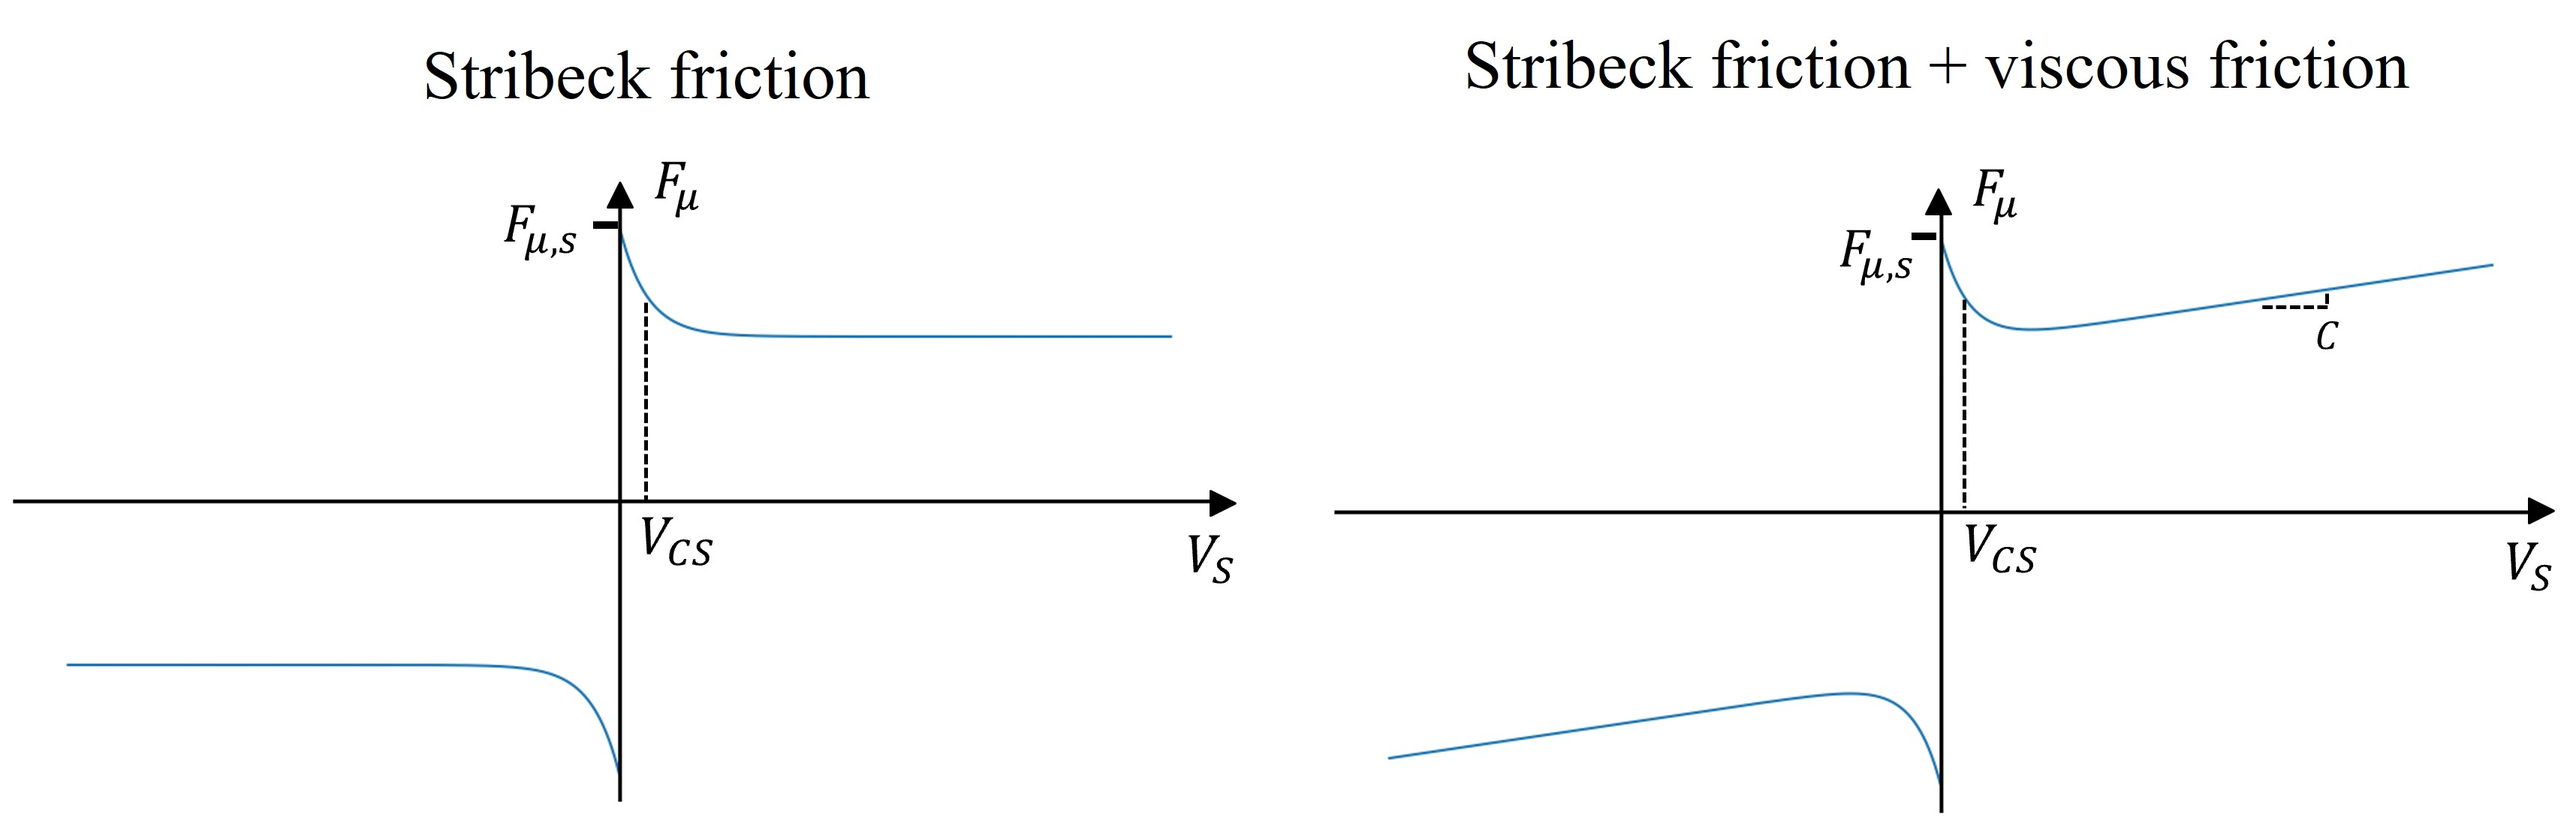
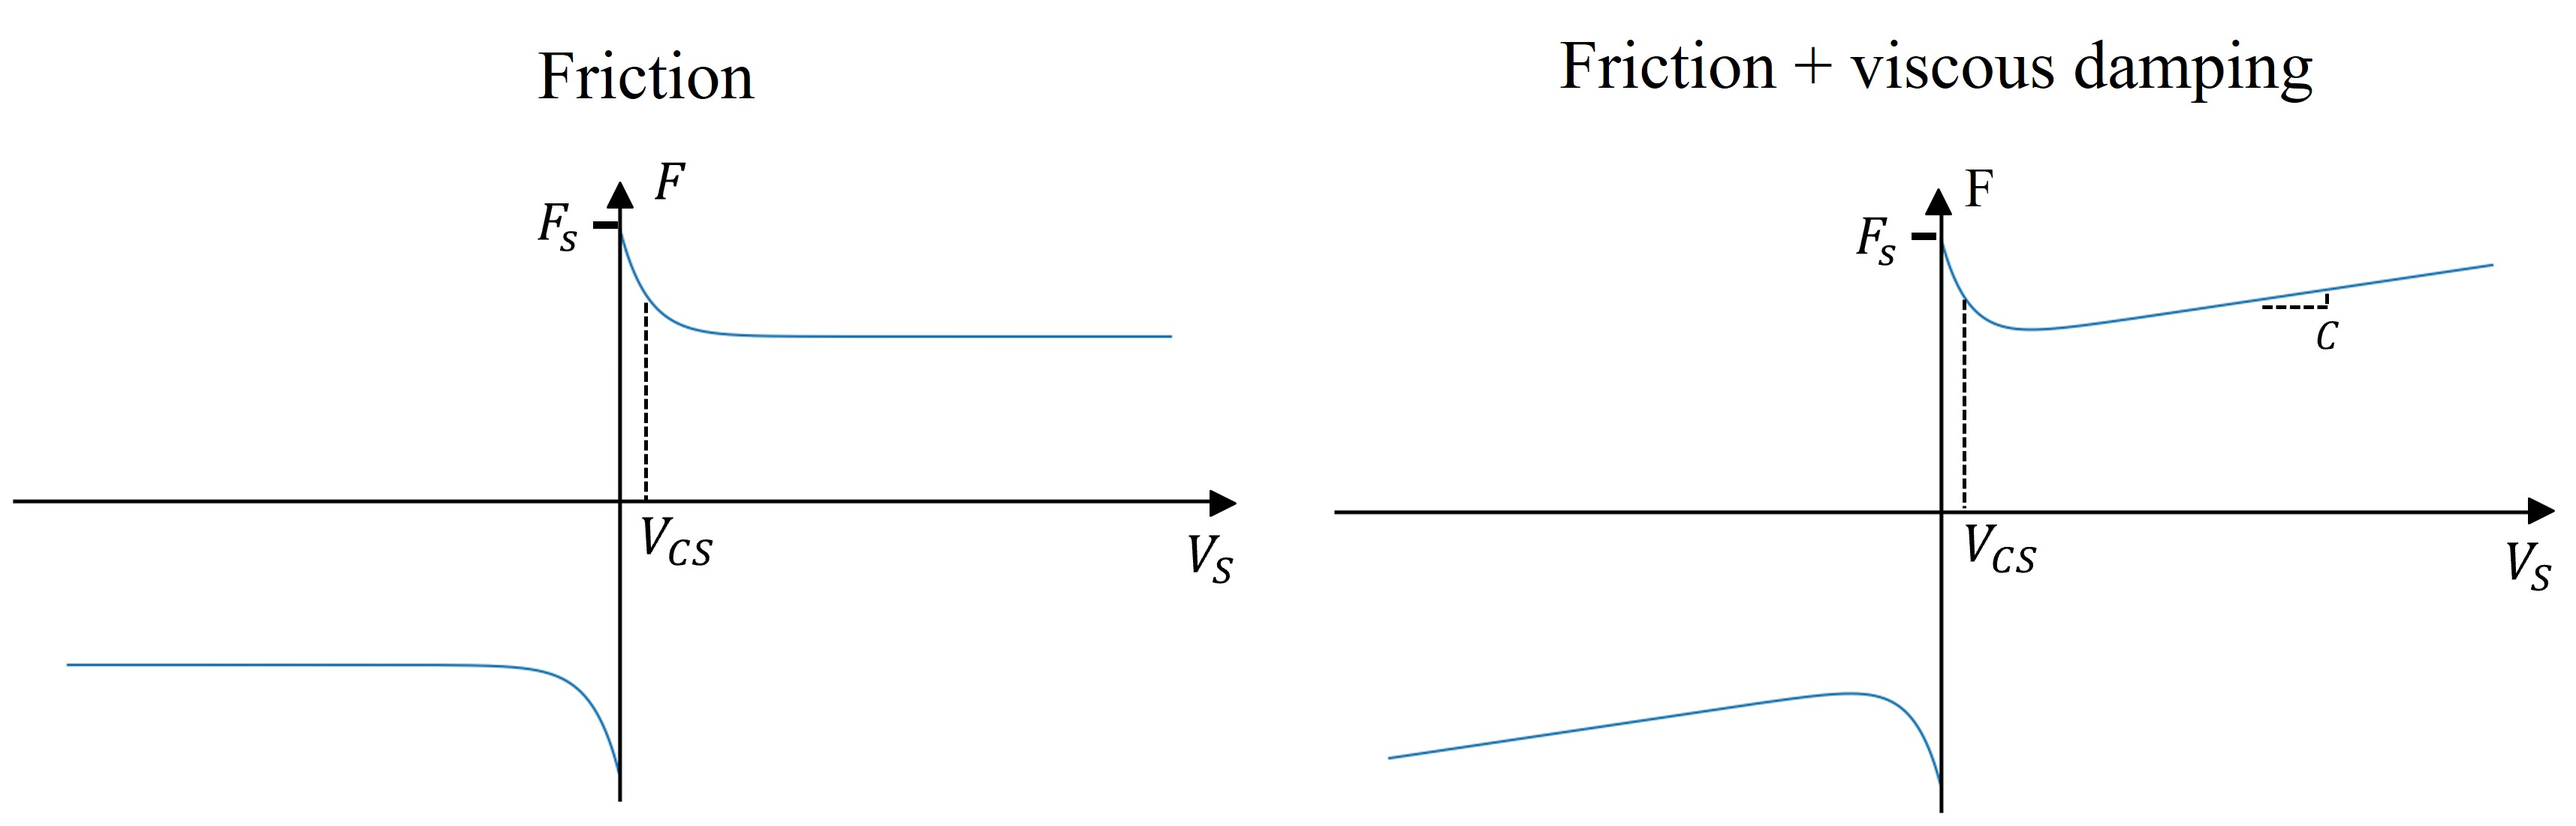
Friction fixed

diff --git a/src/Aarsnes-Shor Model.tex b/src/Aarsnes-Shor Model.tex
@@ -39,11 +39,11 @@ where $J_{td}$ is top drive inertia, $\tau_{0}$ is the torque on top of the dril
 The model assumes the toque on bit to be constant. The Test Cases for this project are off-bottom scenario with not bit-rock contact, therefore, the torque on bit is fixed to zero. In addition, model does not consider weight on bit since current model is only for torsional mode.
 
 \section{Friction Model}
-The total friction including dry and viscous friction, is modeled as Coulomb friction as a jump. The static friction applies when the angular velocity of the drill string is below the given threshold, which is modeled as inclusion. In other words, below the threshold, The total friction is bounded by static friction. On the other hand, when the angular velocity exceeds the threshold, transit to dynamic friction occurs and the total friction will be linear combination of dynamic and viscous friction. More details can be seen from \equationname~\ref{equation_A-S_columnbfriciton}-\ref{equation_A-S_dynamic_fric}. \figurename~\ref{figure_AS_friction} illustrates the friction model for A-S model.
+The friction is modeled as Coulomb friction as a jump. The static friction applies when the angular velocity of the drill string is below the given threshold, which is modeled as inclusion. In other words, the friction is bounded by static friction when the angular velocity is below the threshold. On the other hand, when the angular velocity exceeds the threshold, transit to dynamic friction occurs. More details can be seen from \equationname~\ref{equation_A-S_columnbfriciton}-\ref{equation_A-S_dynamic_fric}. \figurename~\ref{figure_AS_friction} illustrates the friction model for A-S model.
 \begin{figure}
   \centering
   \includegraphics[width=6.5in]{AS_friction}
-  \caption[Friction model for A-S model]{Friction model for A-S model. Left and right figures are friction models in A-S model only when dry friction is considered and both dry and viscous friction are included, respectively. Dry friction refers to the friction from drill string and wellbore contact. $F_{\mu, s}$, $F_{\mu, d}$ are static and dynamic friction force, respectively, $k_{T}$ is viscous friction coefficient for torsional motion and $w_{c}$ is critical angular velocity which is the threshold for transition between static and dynamic friction. When the angular velocity is below the critical velocity, the total friction is bounded by static friction.}\label{figure_AS_friction}
+  \caption[Friction model for A-S model]{Friction model for A-S model. Left and right figures are Friction and the combination of friction and viscous damping with respect to angular velocity, respectively. Friction is modeled as Coulomb friction which refers to the friction from drill string and wellbore contact. $F_{s}$, $F_{d}$ are static and dynamic friction force, respectively, $k_{T}$ is the viscous damping coefficient for torsional motion and $w_{c}$ is the critical angular velocity which is the threshold for transition between static and dynamic friction. When the angular velocity is below the critical velocity, the friction is bounded by static friction.}\label{figure_AS_friction}
 \end{figure}
 
 The Coulomb friction $\mathcal{F}(w,x)$ is modeled as an inclusion which is shown in \equationname~\ref{equation_A-S_columnbfriciton}. The parameters for the equations can be seen from \figurename~\ref{figure_AS_equation_schematic}.
@@ -54,12 +54,12 @@ The Coulomb friction $\mathcal{F}(w,x)$ is modeled as an inclusion which is show
 \end{figure}
 \begin{equation}\label{equation_A-S_columnbfriciton}
   \begin{cases}
-     \mathcal{F}(w,x) = F_{\mu,d}(x), & \mbox{if } w>w_c \\
-     \mathcal{F}(w,x) \in [-F_{\mu,s}(x), F_{\mu,s}(x)], & \mbox{if } |w|<w_c \ \\
-     \mathcal{F}(w,x) = -F_{\mu,d}(x), & \mbox{if } w < -w_c.
+     \mathcal{F}(w,x) = F_{d}(x), & \mbox{if } w>w_c \\
+     \mathcal{F}(w,x) \in [-F_{s}(x), F_{s}(x)], & \mbox{if } |w|<w_c \ \\
+     \mathcal{F}(w,x) = -F_{d}(x), & \mbox{if } w < -w_c.
   \end{cases}
 \end{equation}
-where $w_c$ is the critical angular velocity for Coulomb friction transition from static to dynamic, $F_{\mu,d}$ and $F_{\mu,s}$ are dynamic and static Coulomb torque, respectively. For condition $|w|<w_c$, $\mathcal{F}(w,x)$ takes the boundary values $\pm F_{\mu,s}(x)$.
+where $w_c$ is the critical angular velocity for Coulomb friction transition from static to dynamic, $F_{d}$ and $F_{s}$ are dynamic and static Coulomb friction, respectively. For condition $|w|<w_c$, $\mathcal{F}(w,x)$ takes the boundary values $\pm F_{s}(x)$.
 
 Static friction $F_{\mu,s}$ is calculated from normal force, $F_N$, along the drill string which is obtained as
 \begin{equation}\label{equation_AS_normal_force}

diff --git a/src/Introduction.tex b/src/Introduction.tex
@@ -47,11 +47,15 @@ A discrete system with repeating, but non-harmonic loading, would not strictly f
 However, there are obvious similarities between the classical and discrete, non-harmonic loading cases.  A clear response to machine start up and other changes in loading is evident.  Similarly, it can be seen that, given time, the systems will damp out their response to these changes.  So while the classical and the discrete, non-harmonically loaded systems exhibit somewhat different traits, they are comparable in the broad sense.  As such, it is useful to speak of the two systems in the a similar manner.  \emph{Therefore, in direct analogy to classical harmonic vibration, we will refer to the transient and steady-state phases of the discrete, non-harmonic system.}
 
 \subsection{Dry, Viscous and Total Friction}
-The governing equation of the motion can be represented as 
-\begin{equation}\label{eq:motion_GE}
-    m\ddot{x} + c\dot{x} + k\dot{x} + f_{fric} = F_{ext}
+The governing equation of the axial motion can be represented as 
+\begin{equation}\label{eq:axial_motion_GE}
+    m\ddot{x} + c_a\dot{x} + k_a{x} + f_{fric} = F_{ext}
 \end{equation}
-where $m$ is mass (mass moment of inertial), $c$ is damping coefficient, $k$ is axial stiffness (torsional stiffness), $f_{fric}$ is frictional force, $F_{ext}$ is external force (external torque) and x is axial displacement (angular displacement) for axial (torsional) mode. In drilling dynamics, the damping force, $c\dot{x}$, is a drag, a type of friction for drill string motion from drilling mud and cuttings. Therefore, the damping force is also called viscous friction in this project. On the other hand, frictional force, $f_{fric}$, is dry friction which is a friction between drill string and wellbore surface, also opposing the motion of the drill string. Therefore, total friction in the system is defined as a combination of viscous friction and dry friction.
+where $m$ is mass $c_a$ is axial damping coefficient, $k_a$ is axial stiffness, $f_{fric}$ is frictional force, $F_{ext}$ is external force and $x$ is axial displacement  for axial mode. On the other hand, the governing equation of the torsional motion can be expressed as
+\begin{equation}\label{eq:torsional_motion_GE}
+    J\ddot{\theta} + c_t\dot{\theta} + k_t\theta + \tau _{fric} = \tau _{ext}
+\end{equation}
+where $J$ is mass moment of inertia $c_t$ is torsional damping coefficient, $k_t$ is torsional stiffness, $\tau _{fric}$ is frictional torque, $\tau _{ext}$ is external torque and $\theta$ is angular displacement. In this project, we define frictional force, $f_{fric}$, and torque, $\tau _{fric}$, as friction which is a friction between drill string and wellbore surface that is the function of frictional factor and normal force at the contact between drill string and wellbore. On the other hand, we define damping force, $c_a\dot{x}$ and $c_t\dot{\tau}$, as viscous damping.
 
 \subsection{Models}
 \subsubsection{Static and Dynamic}
